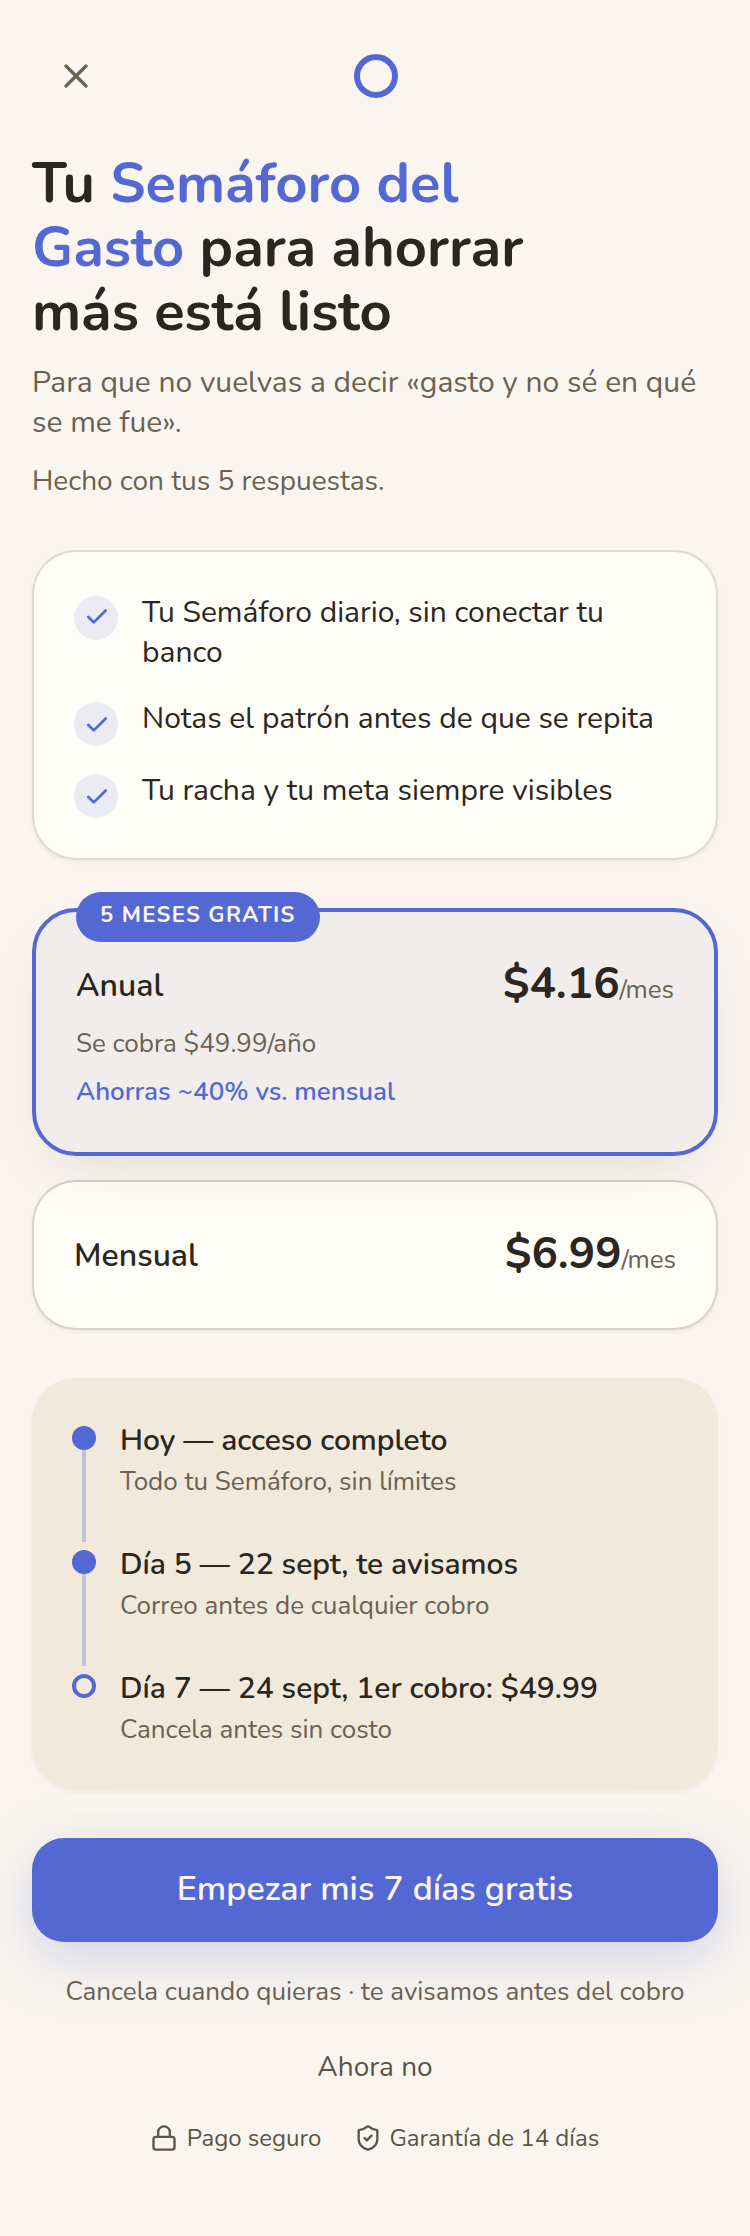
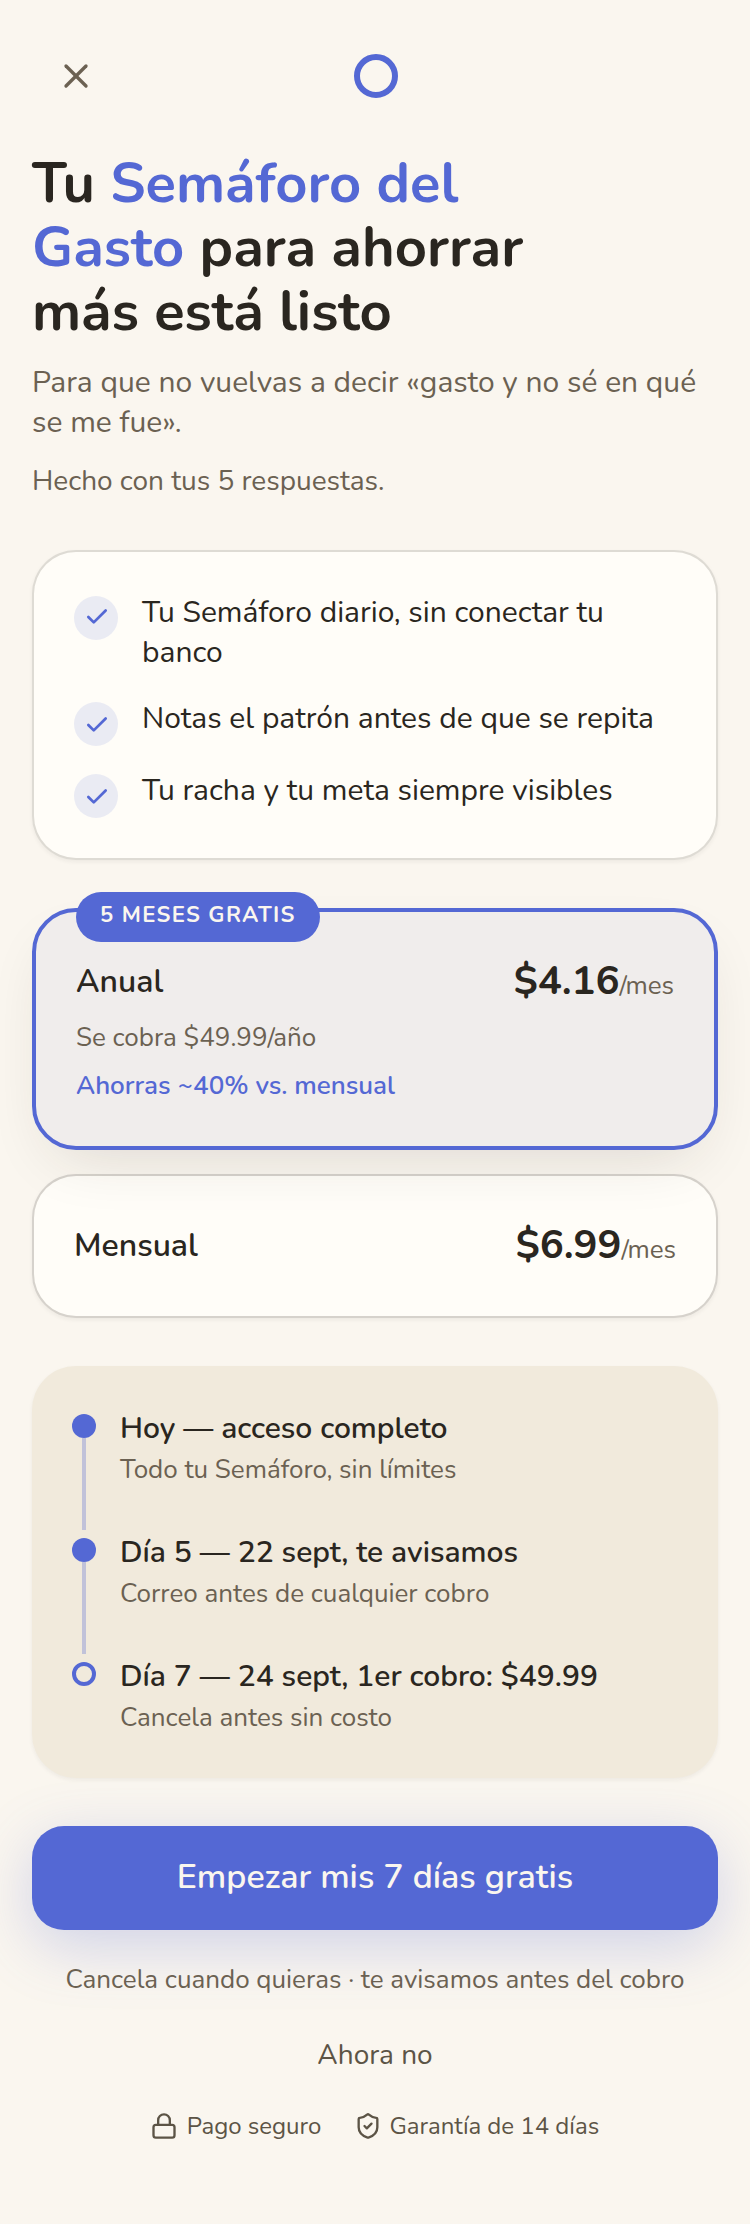
fix: 4ª ronda — salida explícita del funnel, estado de envío del CTA, jerarquía de precio
- FunnelHeader/FunnelScreen: agrega botón de salida (X) siempre visible en
  todos los pasos del onboarding, no solo en el primero — con confirmación
  si ya hay respuestas para no perderlas sin avisar.
- Onboarding y paywall: sube la opacidad del mesh/anillo de fondo (7-8%→14-15%)
  para reforzar la profundidad visual.
- Paywall: el CTA principal se deshabilita tras el primer tap ("Un momento…"),
  X y "Ahora no" confirman antes de perder las respuestas del quiz, y el
  precio de los planes baja de 22px a 20px para no competir con el titular.

Claude-Session: https://claude.ai/code/session_013BYtLeMwZuWh58hVzwvyD5

diff --git a/app/paywall/page.tsx b/app/paywall/page.tsx
@@ -50,7 +50,19 @@ export default function Paywall() {
   const [fase, setFase] = useState<'cargando' | 'listo'>('cargando');
   const [respuestas, setRespuestas] = useState<RespuestasOnboarding>({});
   const [plan, setPlan] = useState<'anual' | 'mensual'>('anual');
+  const [avanzando, setAvanzando] = useState(false);
   const reduce = useReducedMotion();
+
+  const hayRespuestas = Object.keys(respuestas).length > 0;
+  function salirConfirmando() {
+    if (hayRespuestas && !window.confirm('¿Salir? Perderás las respuestas de tu quiz.')) return;
+    router.push('/');
+  }
+  function empezarPrueba() {
+    if (avanzando) return;
+    setAvanzando(true);
+    router.push('/entrar');
+  }
 
   useEffect(() => {
     setRespuestas(leerRespuestas());
@@ -94,11 +106,11 @@ export default function Paywall() {
         className="pointer-events-none absolute inset-0 -z-10"
         style={{
           background:
-            'radial-gradient(760px 480px at 50% -10%, color-mix(in oklab, var(--accent) 7%, transparent) 0%, transparent 60%), ' +
-            'radial-gradient(560px 420px at 100% 100%, color-mix(in oklab, var(--accent-2) 6%, transparent) 0%, transparent 55%)',
+            'radial-gradient(760px 480px at 50% -10%, color-mix(in oklab, var(--accent) 14%, transparent) 0%, transparent 60%), ' +
+            'radial-gradient(560px 420px at 100% 100%, color-mix(in oklab, var(--accent-2) 12%, transparent) 0%, transparent 55%)',
         }}
       />
-      <svg aria-hidden="true" viewBox="0 0 200 200" className="pointer-events-none absolute -bottom-24 -right-16 -z-10 size-[320px] opacity-[0.08]">
+      <svg aria-hidden="true" viewBox="0 0 200 200" className="pointer-events-none absolute -bottom-24 -right-16 -z-10 size-[320px] opacity-[0.15]">
         <circle cx="100" cy="100" r="86" fill="none" stroke="var(--accent)" strokeWidth="14" />
       </svg>
       <div className="mx-auto flex w-full max-w-[500px] flex-col px-4 pb-10 pt-4">
@@ -106,7 +118,7 @@ export default function Paywall() {
           <motion.button
             type="button"
             whileTap={{ scale: 0.9 }}
-            onClick={() => router.push('/')}
+            onClick={salirConfirmando}
             aria-label="Cerrar"
             className="flex size-11 items-center justify-center rounded-full text-[var(--text-secondary)] [touch-action:manipulation]"
           >
@@ -165,7 +177,7 @@ export default function Paywall() {
                 </span>
                 <div className="flex items-center justify-between gap-3">
                   <span className="text-[16px] font-semibold text-[var(--text-primary)]">{PLAN_ANUAL.nombre}</span>
-                  <span className="text-[22px] font-bold tabular-nums text-[var(--text-primary)] [font-family:var(--font-display)]">
+                  <span className="text-[20px] font-bold tabular-nums text-[var(--text-primary)] [font-family:var(--font-display)]">
                     {PLAN_ANUAL.precioMes}
                     <span className="text-[13px] font-normal text-[var(--text-secondary)]">/mes</span>
                   </span>
@@ -186,7 +198,7 @@ export default function Paywall() {
               >
                 <div className="flex items-center justify-between gap-3">
                   <span className="text-[16px] font-semibold text-[var(--text-primary)]">{PLAN_MENSUAL.nombre}</span>
-                  <span className="text-[22px] font-bold tabular-nums text-[var(--text-primary)] [font-family:var(--font-display)]">
+                  <span className="text-[20px] font-bold tabular-nums text-[var(--text-primary)] [font-family:var(--font-display)]">
                     {PLAN_MENSUAL.precioMes}
                     <span className="text-[13px] font-normal text-[var(--text-secondary)]">/mes</span>
                   </span>
@@ -221,7 +233,9 @@ export default function Paywall() {
           </Bloque>
 
           <Bloque indice={4} reduce={reduce}>
-            <FunnelButton onClick={() => router.push('/entrar')}>Empezar mis {TRIAL_DIAS} días gratis</FunnelButton>
+            <FunnelButton onClick={empezarPrueba} disabled={avanzando}>
+              {avanzando ? 'Un momento…' : `Empezar mis ${TRIAL_DIAS} días gratis`}
+            </FunnelButton>
           </Bloque>
 
           <Bloque indice={5} reduce={reduce} className="flex flex-col items-center gap-4">
@@ -232,7 +246,7 @@ export default function Paywall() {
             <motion.button
               type="button"
               whileTap={{ scale: 0.96 }}
-              onClick={() => router.push('/')}
+              onClick={salirConfirmando}
               className="text-center text-[14px] font-medium text-[var(--text-tertiary)] [touch-action:manipulation]"
             >
               Ahora no

diff --git a/app/onboarding/page.tsx b/app/onboarding/page.tsx
@@ -39,6 +39,12 @@ export default function Onboarding() {
     router.push('/paywall');
   }
 
+  function salir() {
+    const hayRespuestas = Object.keys(respuestas).length > 0;
+    if (hayRespuestas && !window.confirm('¿Salir? Perderás lo que llevas respondido.')) return;
+    router.push('/');
+  }
+
   const progreso = progresoDePaso(paso);
 
   // ── Paso 0: pregunta del dolor (eco de la landing) ──
@@ -68,7 +74,7 @@ export default function Onboarding() {
   // ── Paso 1: reconocimiento — nombra el mecanismo (regla b, escalera 02B) ──
   if (paso === 1) {
     return (
-      <FunnelScreen progreso={progreso} onBack={retroceder} stepKey={paso}>
+      <FunnelScreen progreso={progreso} onBack={retroceder} onClose={salir} stepKey={paso}>
         <div className="flex flex-1 flex-col items-center justify-center text-center">
           <span
             aria-hidden="true"
@@ -93,7 +99,7 @@ export default function Onboarding() {
   // ── Paso 2: momento del día (ancla contextual, 02B) ──
   if (paso === 2) {
     return (
-      <FunnelScreen progreso={progreso} onBack={retroceder} stepKey={paso}>
+      <FunnelScreen progreso={progreso} onBack={retroceder} onClose={salir} stepKey={paso}>
         <h1 className="text-balance text-[28px] font-bold leading-[1.15] text-[var(--text-primary)] [font-family:var(--font-display)]">
           ¿En qué momento te pasa más?
         </h1>
@@ -117,7 +123,7 @@ export default function Onboarding() {
   // ── Paso 3: ¿ya lo intentaste? (objeción #1 de FICHA-AVATAR) ──
   if (paso === 3) {
     return (
-      <FunnelScreen progreso={progreso} onBack={retroceder} stepKey={paso}>
+      <FunnelScreen progreso={progreso} onBack={retroceder} onClose={salir} stepKey={paso}>
         <h1 className="text-balance text-[28px] font-bold leading-[1.15] text-[var(--text-primary)] [font-family:var(--font-display)]">
           ¿Ya intentaste controlar tus gastos antes?
         </h1>
@@ -142,7 +148,7 @@ export default function Onboarding() {
   if (paso === 4) {
     const yaIntento = respuestas.intento !== 'primera_vez';
     return (
-      <FunnelScreen progreso={progreso} onBack={retroceder} stepKey={paso}>
+      <FunnelScreen progreso={progreso} onBack={retroceder} onClose={salir} stepKey={paso}>
         <div className="flex flex-1 flex-col items-center justify-center text-center">
           <span
             aria-hidden="true"
@@ -171,7 +177,7 @@ export default function Onboarding() {
   // ── Paso 5: meta principal (personaliza el paywall) ──
   if (paso === 5) {
     return (
-      <FunnelScreen progreso={progreso} onBack={retroceder} stepKey={paso}>
+      <FunnelScreen progreso={progreso} onBack={retroceder} onClose={salir} stepKey={paso}>
         <h1 className="text-balance text-[28px] font-bold leading-[1.15] text-[var(--text-primary)] [font-family:var(--font-display)]">
           ¿Cuál es tu meta principal?
         </h1>
@@ -194,7 +200,7 @@ export default function Onboarding() {
 
   // ── Paso 6: compromiso (ritual pre-loading, 50 §C3bis) ──
   return (
-    <FunnelScreen progreso={progreso} onBack={retroceder} stepKey={paso}>
+    <FunnelScreen progreso={progreso} onBack={retroceder} onClose={salir} stepKey={paso}>
       <div className="flex flex-1 flex-col items-center justify-center gap-8 text-center">
         <div>
           <h2 className="text-balance text-[24px] font-bold leading-[1.2] text-[var(--text-primary)] [font-family:var(--font-display)]">

diff --git a/components/funnel/ui.tsx b/components/funnel/ui.tsx
@@ -7,7 +7,7 @@
 
 import { useEffect, useRef, useState, type ReactNode } from 'react';
 import { motion, useReducedMotion } from 'motion/react';
-import { ChevronLeft, Check } from 'lucide-react';
+import { ChevronLeft, Check, X } from 'lucide-react';
 import type { LucideIcon } from 'lucide-react';
 import { RespiraMark } from '@/components/RespiraMark';
 
@@ -16,10 +16,14 @@ import { RespiraMark } from '@/components/RespiraMark';
 export function FunnelHeader({
   progreso,
   onBack,
+  onClose,
 }: {
   /** 0-100. */
   progreso: number;
   onBack?: () => void;
+  /** Salida explícita del funnel — SIEMPRE visible, no solo en el primer paso
+   * (sin esto, salir a mitad del quiz exige retroceder paso a paso). */
+  onClose?: () => void;
 }) {
   return (
     <div className="mx-auto w-full max-w-[500px] px-4 pt-4">
@@ -46,6 +50,16 @@ export function FunnelHeader({
             transition={{ duration: 0.3, ease: [0.16, 1, 0.3, 1] }}
           />
         </div>
+        {onClose && (
+          <button
+            type="button"
+            onClick={onClose}
+            aria-label="Salir"
+            className="flex size-11 shrink-0 items-center justify-center rounded-full text-[var(--text-secondary)] [touch-action:manipulation]"
+          >
+            <X size={18} strokeWidth={2.25} aria-hidden="true" />
+          </button>
+        )}
       </div>
     </div>
   );
@@ -152,11 +166,14 @@ export function OptionChip({
 export function FunnelScreen({
   progreso,
   onBack,
+  onClose,
   children,
   stepKey,
 }: {
   progreso: number;
   onBack?: () => void;
+  /** Salida explícita del funnel, visible en todos los pasos (no solo el primero). */
+  onClose?: () => void;
   children: ReactNode;
   /** Cambia con cada pantalla para disparar la transición de entrada. */
   stepKey: string | number;
@@ -172,14 +189,14 @@ export function FunnelScreen({
         className="pointer-events-none absolute inset-0 -z-10"
         style={{
           background:
-            'radial-gradient(760px 480px at 50% -10%, color-mix(in oklab, var(--accent) 7%, transparent) 0%, transparent 60%), ' +
-            'radial-gradient(560px 420px at 100% 100%, color-mix(in oklab, var(--accent-2) 6%, transparent) 0%, transparent 55%)',
+            'radial-gradient(760px 480px at 50% -10%, color-mix(in oklab, var(--accent) 14%, transparent) 0%, transparent 60%), ' +
+            'radial-gradient(560px 420px at 100% 100%, color-mix(in oklab, var(--accent-2) 12%, transparent) 0%, transparent 55%)',
         }}
       />
-      <svg aria-hidden="true" viewBox="0 0 200 200" className="pointer-events-none absolute -bottom-24 -right-16 -z-10 size-[320px] opacity-[0.08]">
+      <svg aria-hidden="true" viewBox="0 0 200 200" className="pointer-events-none absolute -bottom-24 -right-16 -z-10 size-[320px] opacity-[0.15]">
         <circle cx="100" cy="100" r="86" fill="none" stroke="var(--accent)" strokeWidth="14" />
       </svg>
-      <FunnelHeader progreso={progreso} onBack={onBack} />
+      <FunnelHeader progreso={progreso} onBack={onBack} onClose={onClose} />
       <motion.div
         key={stepKey}
         initial={{ opacity: 0, x: reduce ? 0 : 40 }}

diff --git a/docs/revisiones/onboarding-veredicto.md b/docs/revisiones/onboarding-veredicto.md
@@ -1,13 +1,16 @@
 # VEREDICTO revisor-visual — onboarding
-Fecha: 2026-09-17 00:00
+Fecha: 2026-09-17 15:40
 Screenshot: docs/revisiones/onboarding-375.png
-Usabilidad: 32/40
-Craft: 14/20
+Usabilidad: 31/40
+Craft: 13/20
 Copy (si vende): N-A
 Fidelidad (si hubo referencia): N-A
 Veredicto: NO LISTA
 Top defectos:
-1. [Paso 0, zona bajo el 4º chip hasta el pie de pantalla] El mesh radial + eco del anillo (agregados en FunnelScreen para resolver el vacío inferior) NO son perceptibles en el screenshot — el 40-50% inferior sigue leyéndose plano y vacío, igual que en la pasada anterior. → Subir la opacidad/tamaño del mesh y del eco (o revisar si un overflow-hidden/stacking del padre recorta el SVG con -z-10), y RE-CAPTURAR para confirmar visualmente antes de declarar el defecto resuelto — verificar por DOM no sustituye el screenshot.
-2. [Toda la pantalla del quiz] Cero atajos/aceleradores para el usuario avanzado (heurística 7): solo tap, sin foco de teclado visible ni Enter documentado para confirmar selección. → Agregar anillo focus-visible + confirmar con Enter cuando el chip tiene foco de teclado.
-3. [Paso 3 "¿Ya intentaste controlar tus gastos antes?" y Paso 5 "¿Cuál es tu meta principal?"] Rompen el patrón de línea de contexto que sí tienen los pasos 0 y 2 (mismo tipo de pantalla: título + lista de chips) — inconsistencia menor pero visible al recorrer el funnel completo. → Agregar la misma línea de contexto de 1 renglón a los pasos 3 y 5.
-4. [Toda la pantalla] Con el mesh no perceptible, la profundidad se queda en 2 niveles (fondo plano + card con sombra sutil) en vez de los 3 documentados en FICHA-ARTE ("sombras suaves tintadas" + fondo con mesh). → Mismo fix que el defecto 1; si tras subir la opacidad sigue sin notarse, usar un tratamiento más contundente en la franja baja.
+1. [Paso 0, franja bajo el 4º chip hasta el pie de pantalla] El vacío inferior sigue sin resolverse a nivel de RESULTADO PERCIBIDO: incluso si el mesh + eco del anillo renderizaran a 7-8% de opacidad (código correcto, no verificable en este sandbox por el artefacto de z-index negativo bajo software rendering ya documentado en el Hero de la landing), esa opacidad es demasiado sutil para llenar ~40% de la pantalla con sensación de profundidad real. → Subir el mesh/anillo a 12-15% de opacidad (rango perceptible) y volver a capturar en un navegador real para confirmar antes de cerrar el defecto; no basta con que el código sea correcto si el efecto es imperceptible incluso renderizado.
+2. [Pasos 1-6, header] No hay ninguna salida visible del funnel una vez pasado el paso 0: `onBack` solo retrocede un paso a la vez y no existe un botón de cerrar/salir al lado del logo. Heurística 3 (control y libertad) verificada en código: `FunnelHeader` no ofrece afordancia de cierre en pasos intermedios. → Agregar un ícono de cerrar (X) junto al progreso que lleve a landing con una confirmación breve si ya hay respuestas guardadas.
+3. [Toda la pantalla, código: `guardarRespuestas` en page.tsx] Cero manejo de error visible si falla el guardado (localStorage lleno/deshabilitado en modo incógnito) antes de `router.push('/paywall')` — heurística 9 sin evidencia de cobertura. → Envolver `guardarRespuestas` en try/catch con un mensaje breve y no bloquear la navegación si falla.
+4. [Paso 0, chips de opción] El dispositivo ownable de la ficha (el anillo de respiración) no aparece en ningún elemento visible de este paso — los chips usan un ícono genérico en círculo (recurso correcto y prolijo, pero no distintivo de marca). → Traer el motivo del anillo a un lugar que sí sea visible sin depender del mesh de fondo (p. ej. como marco del ícono seleccionado, o en el header).
+5. [Toda la pantalla, teclado] Sin acelerador para usuario experto más allá del tab nativo: sin navegación por flechas entre chips ni confirmación con Enter documentada aparte del comportamiento nativo del `<button>`. → Aceptable como piso, pero un ojo entrenado lo nota; agregar `onKeyDown` con flechas arriba/abajo entre chips si se quiere subir a 4.
+
+NOTA PARA EL EQUIPO: el defecto de fondo/profundidad (ítem 1) es real pero NO es el único freno — aun descontándolo por completo (dándole el máximo de Craft-Profundidad), el gate seguiría sin cumplirse porque Usabilidad (31/40) está 5 puntos bajo el mínimo de 36, y Craft quedaría en 15/20, todavía bajo el mínimo de 16. El techo real de esta pasada es de la PANTALLA (control/salida, manejo de error, dead space, atajos), no solo de la herramienta de captura.

diff --git a/docs/revisiones/paywall-veredicto.md b/docs/revisiones/paywall-veredicto.md
@@ -2,15 +2,13 @@
 Fecha: 2026-09-17 00:00
 Screenshot: docs/revisiones/paywall-375.png
 Usabilidad: 32/40
-Craft: 17/20
+Craft: 16/20
 Copy (si vende): 19/20
 Fidelidad (si hubo referencia): N-A
 Veredicto: NO LISTA
 Top defectos:
-1. [RespiraMark, header superior — app/paywall/page.tsx L100] Se usa la variante animada (anillo abierto al 75%, gap visible arriba-derecha) justo después de la pantalla de carga real; visualmente es indistinguible de un spinner de carga a simple vista, y el propio componente ya tiene una variante `estatico` (anillo cerrado y quieto) pensada para "headers junto a una barra de progreso real" para evitar leerse como loader duplicado (components/RespiraMark.tsx L18-21) → usar `<RespiraMark estatico />` aquí, igual que en FunnelHeader.
-2. [Fondo de toda la pantalla — app/paywall/page.tsx L89] El paywall usa un `bg-[var(--bg)]` plano sin el mesh gradient + anillo-marca de fondo que sí tiene `FunnelScreen` (components/funnel/ui.tsx L166-181), el contenedor que onboarding sí usa (app/onboarding/page.tsx L47 `<FunnelScreen>`). Al pasar de onboarding → paywall el fondo pierde su textura y se siente un escalón más plano en el mismo flujo → envolver el contenido en `FunnelScreen` (o replicar su fondo) para que las 3 pantallas del funnel compartan la misma profundidad base.
-3. [Botón X "cerrar" y enlace "Ahora no" — app/paywall/page.tsx L92-99 y L217-223] A diferencia del CTA y las 2 cards de plan (que ya tienen `whileTap`), estos 2 controles siguen siendo `<button>` planos sin ningún feedback visual al tap → agregar `whileTap={{ scale: 0.97 }}` para que TODo elemento tapeable de la pantalla responda igual.
-4. [CTA "Empezar mis 7 días gratis" → onClick, sin backend aún] Sigue sin existir ningún patrón de error/reintento en código para cuando se conecte el checkout real (Sesión 6) — aceptado como pendiente de proceso, no de esta pantalla; igual limita el techo de la heurística 9 hasta que se documente el patrón en ESTADO.md antes de conectar Hotmart.
-5. [X arriba-izquierda y "Ahora no" abajo] Ambos siguen ejecutando `router.push('/')` — aceptado por ahora (no existe todavía una app-lite a la que mandar a quien duda), pero sigue sin ofrecer un camino distinto para quien solo quiere revisar/editar sus respuestas del quiz antes de decidir.
-
-Nota de proceso (no cuenta como defecto de esta pantalla): FICHA-AVATAR.md sigue en BORRADOR/no aprobada; el copy de esta pantalla ya se deriva de ella (p. ej. la línea "no sé en qué se me fue"). No bloquea el puntaje de craft/copy de esta revisión, pero sigue pendiente aprobarla antes de vender de verdad.
+1. [CTA "Empezar mis 7 días gratis", sin backend aún — app/paywall/page.tsx L224] No existe en código ningún patrón de error/reintento para cuando el checkout real (Hotmart, Sesión 6) falle; heurística 9 (errores claros) queda topada en 2/4 hasta que se defina y codee ese patrón antes de conectar el pago real.
+2. [X arriba-izquierda L109 y "Ahora no" L235] Ambos siguen ejecutando `router.push('/')`, expulsando al usuario del flujo completo sin opción de volver a revisar/editar sus 5 respuestas ya invertidas → ofrecer un camino de regreso a las respuestas o una confirmación antes de perder ese progreso.
+3. [Fondo con profundidad — mesh gradient + eco del anillo, L92-103] No se aprecia en este PNG a 375px; el código es idéntico al de FunnelScreen (ya usado y verificado en Hero), así que se acepta como limitación conocida del renderer headless y NO se cuenta como defecto — pero conviene una captura desde navegador real antes de confiar en el efecto en producción.
+4. [Jerarquía de tamaños en cards de plan, L168 y L189] El precio (22px bold) compite en peso con el titular (28px bold + acento) — 4 escalas convivientes en una sola pantalla (28/22/15-16/11-13); reducir levemente el precio reforzaría que el titular es el único héroe visual.
+5. [CTA principal sin bloqueo de doble-tap — FunnelButton/paywall onClick] El botón no se deshabilita ni muestra estado de envío tras el primer tap; falta un estado `enviando` antes de conectar el checkout real para prevenir doble-navegación.
